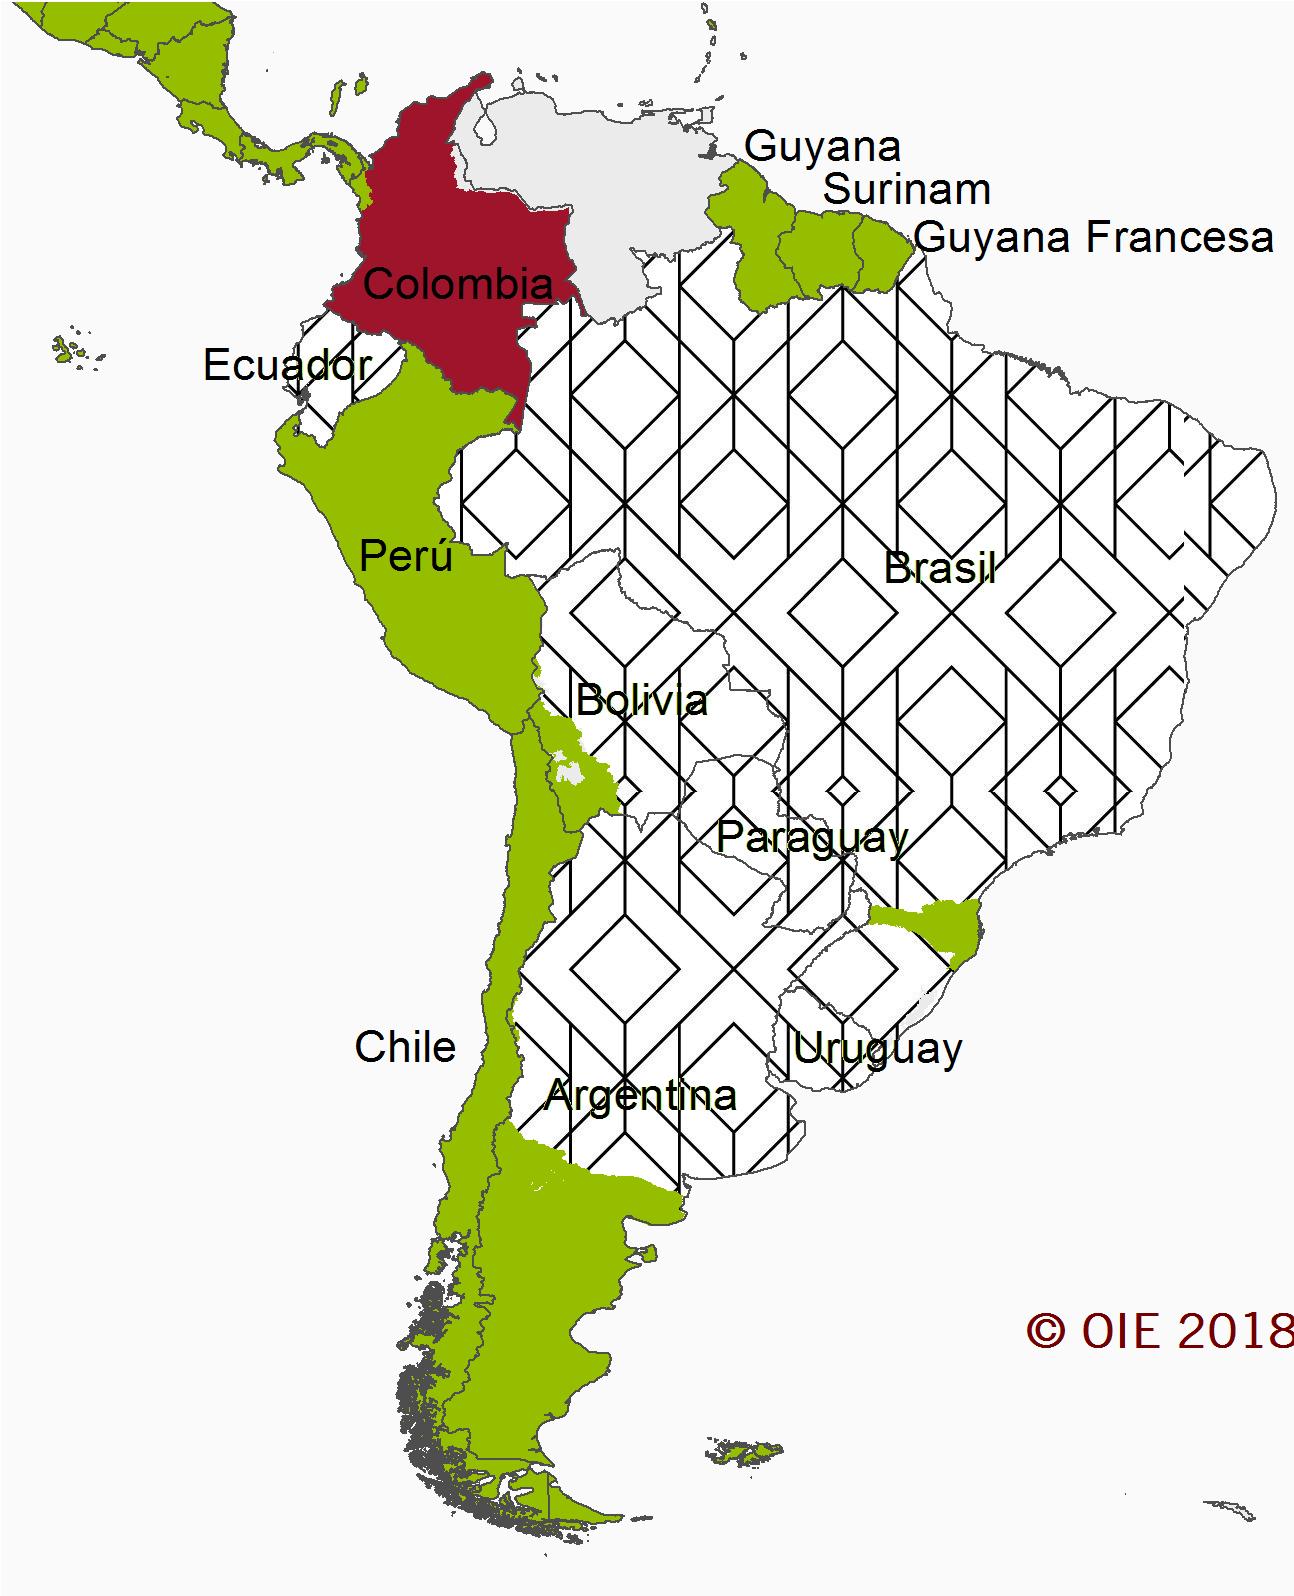
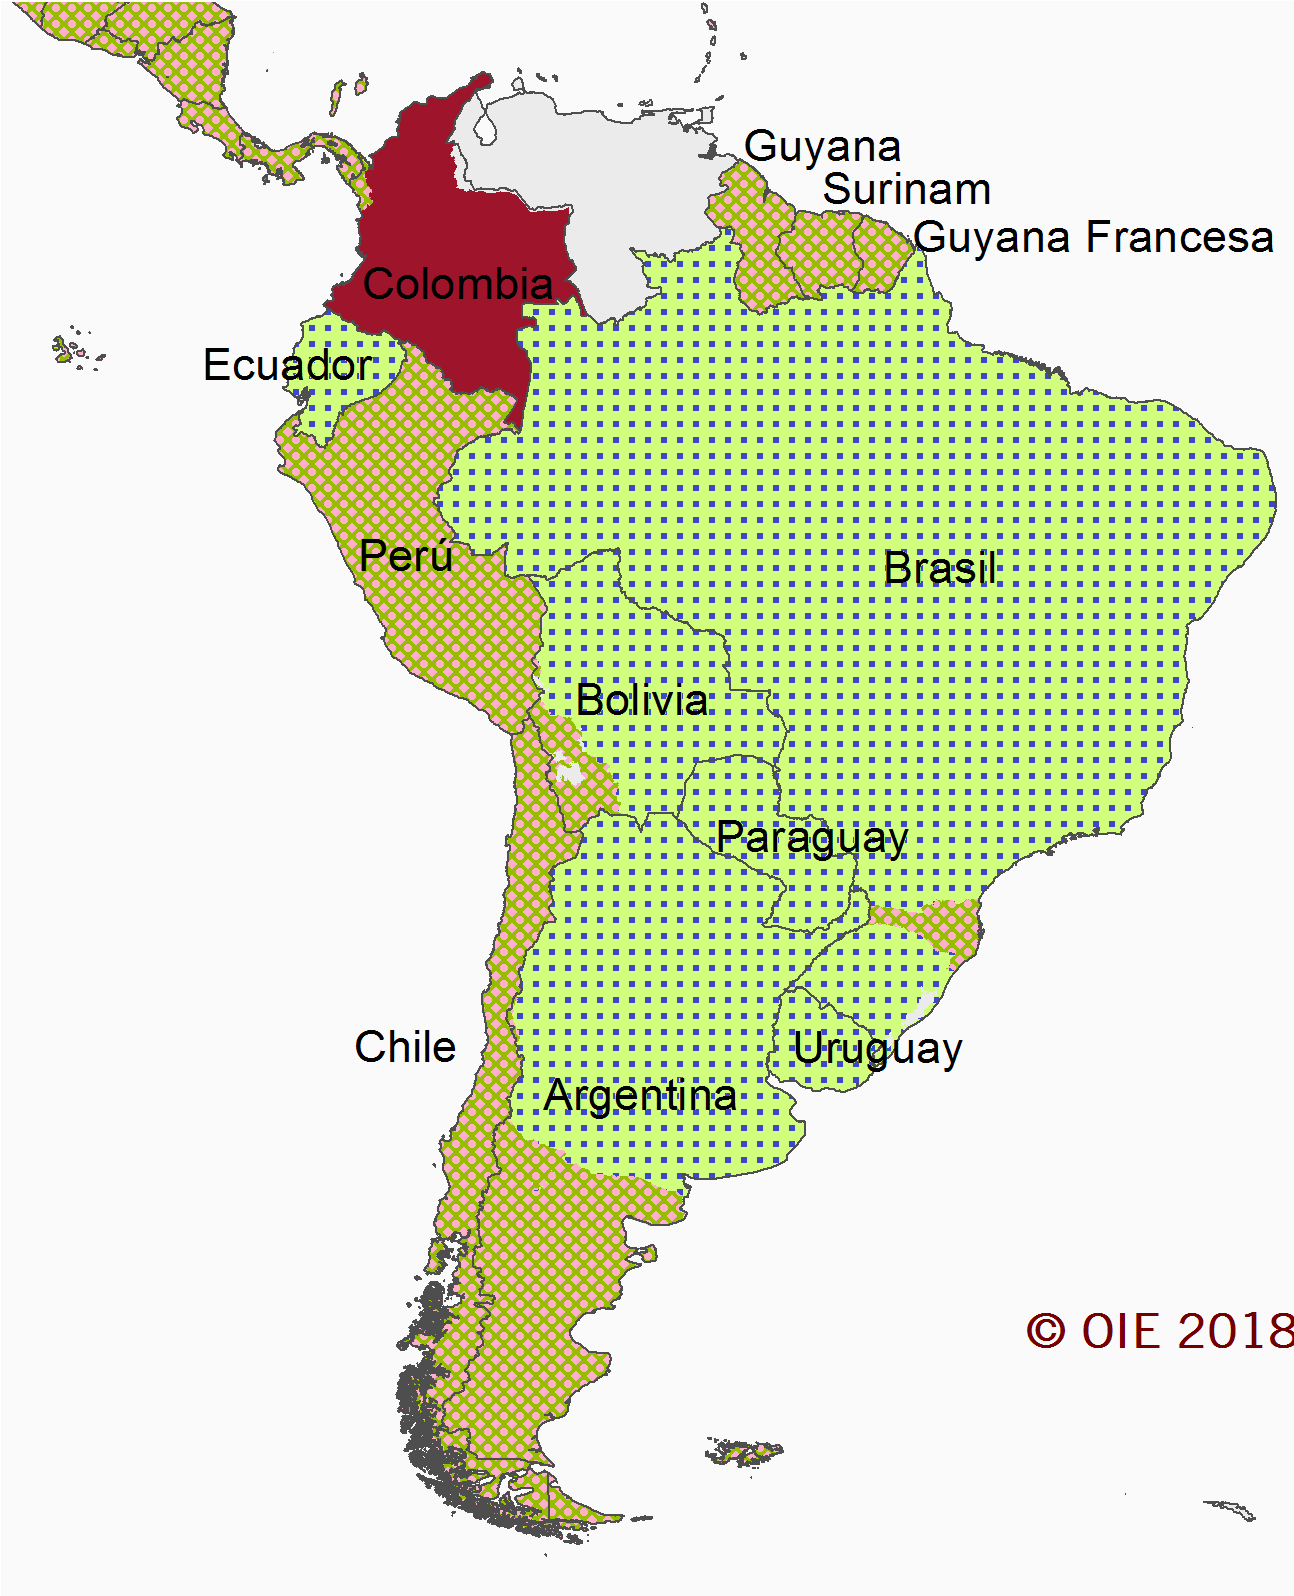
Testing

Changed region(s): [[0.2164, 0.0921, 0.9892, 0.9518], [0.0309, 0.0, 0.1855, 0.0921], [0.1855, 0.0921, 0.2782, 0.1228]]

diff --git a/src/main.rs b/src/main.rs
@@ -2,63 +2,41 @@ extern crate image;
 
 use std::error::Error;
 
-fn calc_location(
-    size2: (u32, u32),
-    location: (u32, u32),
-) -> (u32, u32) {
-    
-    if location.0 < size2.0 && location.1 < size2.1 {
+fn calc_location(size_pattern: (u32, u32), location: (u32, u32)) -> (u32, u32) {
+    if location.0 < size_pattern.0 && location.1 < size_pattern.1 {
         return location;
     }
 
-    let mut ret = (0, 0);
-
-    let a = location.0 / size2.0;
-    let b = location.1 / size2.1;
-
-    ret.0 = location.0 - size2.0 * a;
-    ret.1 = location.1 - size2.1 * b;
-
-    ret
+    (
+        location.0 - size_pattern.0 * (location.0 / size_pattern.0),
+        location.1 - size_pattern.1 * (location.1 / size_pattern.1),
+    )
 }
 
 fn main() -> Result<(), Box<dyn Error>> {
-    let mut img = image::open("image.png").unwrap().to_rgb();
-<<<<<<< HEAD
-    let pattern = image::open("pattern.jpg").unwrap().to_rgb();
+    let mut img = image::open("image.png")?.to_rgb();
+    let pattern1 = image::open("pattern1.png")?.to_rgb();
+    let pattern2 = image::open("pattern2.png")?.to_rgb();
 
-    let old_color = image::Rgb([209, 255, 125]);
-    // let new_color = image::Rgb([20, 20, 240]);
-    //let mut pixels_to_change = Vec::<image::Rgb<u8>>::new();
-=======
-    
-    let gray = image::Rgb([128_u8, 128, 128]);
-    
-    // TODO: use rayon
-    // https://rust-lang-nursery.github.io/rust-cookbook/concurrency/parallel.html
-    // https://stackoverflow.com/questions/48922420/how-do-i-use-rayon-with-an-existing-iterator/54201274#54201274
+    let color1 = image::Rgb([209, 255, 125]);
+    let color2 = image::Rgb([149, 190, 0]);
 
-    for pixel in img.pixels_mut() {
-        let rgb = pixel.to_rgb();
-    
-        if rgb[0] > 240 {
-            if rgb[1] > 240 {
-                if rgb[2] > 240 {
-                    *pixel = gray;
-                }
-            }
-        }
->>>>>>> a56a0e3a9236d91d76c902b2ebd1f6bd51628b83
-
-    let size1 = (img.width(), img.height());
-    let size2 = (pattern.width(), pattern.height());
+    let size1 = (pattern1.width(), pattern1.height());
+    let size2 = (pattern2.width(), pattern2.height());
 
     for p in img.enumerate_pixels_mut() {
-        if *p.2 == old_color {
+        if *p.2 == color1 {
+            //pixels_to_change.push(*p);
+
+            let loc = calc_location(size1, (p.0, p.1));
+            *p.2 = *pattern1.get_pixel(loc.0, loc.1);
+        }
+
+        if *p.2 == color2 {
             //pixels_to_change.push(*p);
 
             let loc = calc_location(size2, (p.0, p.1));
-            *p.2 = *pattern.get_pixel(loc.0, loc.1);
+            *p.2 = *pattern2.get_pixel(loc.0, loc.1);
         }
     }
 
